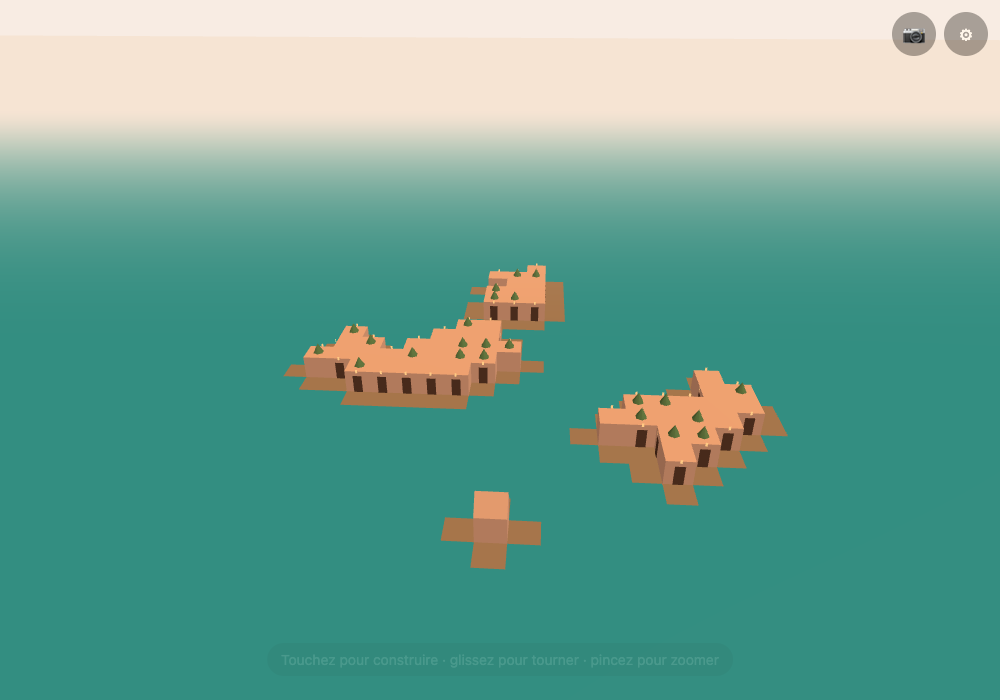
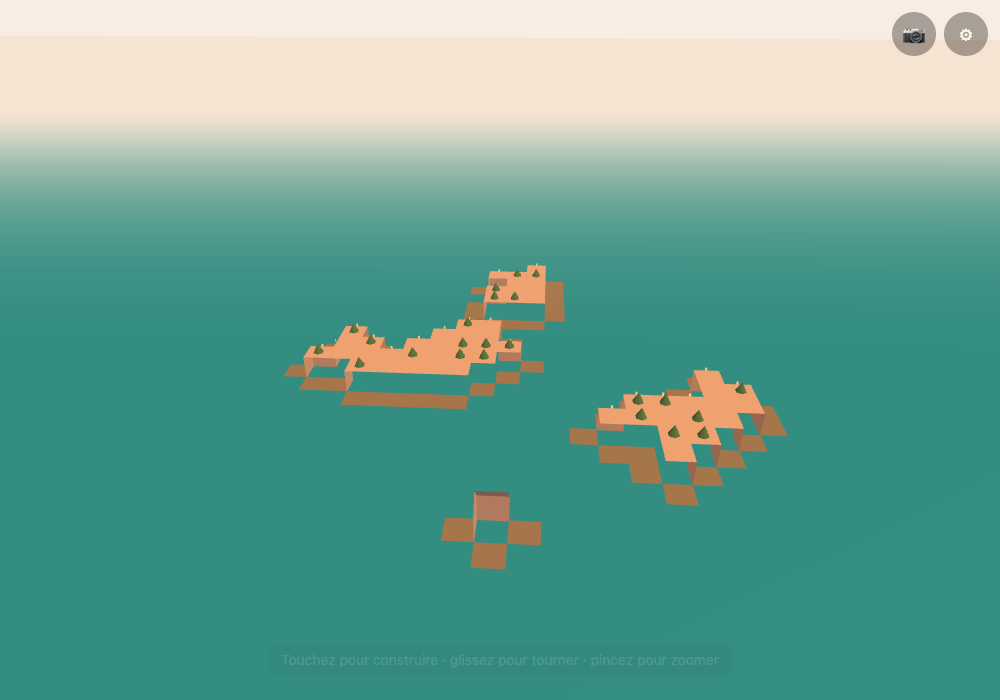
P9 — FrontSide, mesure de performance réelle, décision documentée
Matériaux passés de DoubleSide à FrontSide (les normales de buildCellGeometry.js sont
calculées par produit vectoriel, donc fiables) : vérifié par capture d'écran, aucune face
manquante, moitié moins de fragments à ombrer.

tools/perf.js mesure construction/rendu/draw-calls à 300, 2000 et 5000 cellules (caméra
effectivement cadrée sur la construction, sinon le frustum culling fausse tout — piège
rencontré en écrivant le script). Décision documentée et appuyée sur ces chiffres : la
fusion de maillages par îlot n'est pas faite, parce qu'elle ne se justifie pas encore
(rendu < 3ms à 2000 cellules). Profilage sur téléphone réel hors de portée de cette session
(seul Chrome desktop headless disponible) — seuil de vigilance documenté dans GAME_DESIGN.md.

diff --git a/tools/perf.js b/tools/perf.js
@@ -1,0 +1,67 @@
+/* Mesure de performance (P9) : construit une grande ville, chronomètre la génération et le rendu,
+ * compte les appels de dessin réels (renderer.info). Sert à décider honnêtement si la fusion de
+ * maillages par îlot est nécessaire maintenant ou si elle peut attendre (voir ROADMAP.md).
+ * node tools/perf.js — nécessite `node tools/serve.js` lancé en parallèle. */
+const fs = require('fs');
+const puppeteer = require('puppeteer-core');
+
+const CHROME = process.env.CHROME_PATH
+  || ['/Applications/Google Chrome.app/Contents/MacOS/Google Chrome', '/Applications/Chromium.app/Contents/MacOS/Chromium']
+    .find((p) => fs.existsSync(p));
+const URL = process.env.DW_URL || 'http://localhost:8124/index.html';
+const N = parseInt(process.argv[2] || '2000', 10); // nombre de cellules à construire
+
+(async () => {
+  if (!CHROME) throw new Error('Chrome introuvable (définir CHROME_PATH)');
+  const browser = await puppeteer.launch({ executablePath: CHROME, headless: 'new', args: ['--window-size=1000,700', '--enable-webgl', '--ignore-gpu-blocklist'] });
+  const page = await browser.newPage();
+  await page.setViewport({ width: 1000, height: 700 });
+  page.on('pageerror', (e) => console.error('PAGE ERROR:', e.message));
+
+  await page.goto(URL, { waitUntil: 'load' });
+  await page.waitForFunction('window.DW_TEST && window.DW_TEST.world', { timeout: 5000 });
+
+  const result = await page.evaluate((N) => {
+    const w = window.DW_TEST.world;
+    w.clear();
+    // Carré compact plutôt qu'un archipel (pire cas : un seul gros îlot, beaucoup de murs internes
+    // nuls mais beaucoup de toits/sommets quand même) — majoré volontairement par rapport à un usage réel.
+    const side = Math.ceil(Math.sqrt(N));
+    const t0 = performance.now();
+    let built = 0;
+    for (let x = 0; x < side && built < N; x++) {
+      for (let z = 0; z < side && built < N; z++) { w.build(1000 + x, 1000 + z); built++; }
+    }
+    const buildMs = performance.now() - t0;
+
+    // Cadre la caméra sur la construction : sans ça, le frustum culling de THREE.js exclurait tout
+    // (la ville de test est loin de la vue de départ) et la mesure de rendu ne mesurerait rien.
+    const o = window.DW_TEST.orbit;
+    o.target.x = 1000 + side / 2; o.target.z = 1000 + side / 2;
+    o.distance = side * 1.3; o.pitch = 0.6; o._apply();
+
+    const r0 = performance.now();
+    for (let i = 0; i < 30; i++) window.DW_TEST.render();
+    const renderMs = (performance.now() - r0) / 30;
+
+    return {
+      built, buildMs, renderMsPerFrame: renderMs,
+      meshCount: w.meshCount,
+    };
+  }, N);
+
+  const rendererInfo = await page.evaluate(() => {
+    // renderer n'est pas exposé dans DW_TEST ; on le retrouve via le canvas THREE attache un contexte WebGL,
+    // mais le plus simple est de lire les stats que l'on expose nous-mêmes si disponibles.
+    return window.DW_TEST.rendererInfo ? window.DW_TEST.rendererInfo() : null;
+  });
+
+  console.log('--- Mesure de performance Driftwick ---');
+  console.log('Cellules construites :', result.built);
+  console.log('Temps total de construction :', result.buildMs.toFixed(1), 'ms soit', (result.buildMs / result.built).toFixed(3), 'ms/cellule');
+  console.log('Temps de rendu moyen par image :', result.renderMsPerFrame.toFixed(2), 'ms (', (1000 / result.renderMsPerFrame).toFixed(0), 'im/s max théorique)');
+  console.log('Maillages actifs (meshCount) :', result.meshCount);
+  if (rendererInfo) console.log('Appels de dessin (draw calls) :', rendererInfo.calls, '| triangles :', rendererInfo.triangles);
+
+  await browser.close();
+})().catch((e) => { console.error(e); process.exit(1); });

diff --git a/src/rendering/materials.js b/src/rendering/materials.js
@@ -1,7 +1,10 @@
 /* Palette Driftwick : archipel au crépuscule, pierre rosée et bois flotté, eau profonde à reflets
  * chauds. Choix volontairement éloignés du bleu/blanc froid de référence du genre (voir
- * analysis/GAME_DESIGN.md, section direction artistique). DoubleSide tant que le sens des faces
- * n'est pas optimisé (voir note dans buildCellGeometry.js) — à resserrer en FrontSide en P2+. */
+ * analysis/GAME_DESIGN.md, section direction artistique). FrontSide (P9) : les normales de
+ * buildCellGeometry.js sont calculées par produit vectoriel avec un ordre de sommets cohérent
+ * (jamais devinées à la main), donc le sens des faces est fiable — DoubleSide ne servait plus
+ * que de filet de sécurité pendant que la géométrie bougeait encore. Vérifié par capture d'écran
+ * avant/après : aucune face manquante, moitié moins de fragments à ombrer sur mobile. */
 (function (global) {
   function createPalette(THREE) {
     return {
@@ -12,7 +15,7 @@
         color: new THREE.Color('#e3a98b'),
         roughness: 0.9,
         metalness: 0.0,
-        side: THREE.DoubleSide,
+        side: THREE.FrontSide,
       }),
       // emissive à 0 pour l'instant (P2) : le cycle jour/nuit de P4 fera varier emissiveIntensity
       // pour simuler une fenêtre allumée au crépuscule, sans changer la géométrie ni ce matériau.
@@ -21,18 +24,18 @@
         emissive: new THREE.Color('#ffcf7a'),
         emissiveIntensity: 0,
         roughness: 0.4,
-        side: THREE.DoubleSide,
+        side: THREE.FrontSide,
       }),
       door: new THREE.MeshStandardMaterial({
         color: new THREE.Color('#5b3a29'),
         roughness: 0.85,
-        side: THREE.DoubleSide,
+        side: THREE.FrontSide,
       }),
       // Bois flotté : ponts et quais (P3) — plus clair que la porte, légèrement grisé par l'eau.
       wood: new THREE.MeshStandardMaterial({
         color: new THREE.Color('#9c7a5c'),
         roughness: 0.8,
-        side: THREE.DoubleSide,
+        side: THREE.FrontSide,
       }),
       // Lanterne (P4) : emissiveIntensity à 0 le jour, montée par game.js selon `nightFactor`.
       lantern: new THREE.MeshStandardMaterial({
@@ -40,7 +43,7 @@
         emissive: new THREE.Color('#ffb24d'),
         emissiveIntensity: 0,
         roughness: 0.5,
-        side: THREE.DoubleSide,
+        side: THREE.FrontSide,
       }),
       // Végétation stylisée sur les toits-terrasses (P4) — un seul vert, pas de variation de teinte
       // pour l'instant (suffisant pour la silhouette recherchée, voir GAME_DESIGN.md §4).

diff --git a/game.js b/game.js
@@ -275,7 +275,12 @@
     // Accroche de test : pilotée par tools/smoke.js (headless), sans dépendre de requestAnimationFrame
     // ni d'événements DOM simulés pour vérifier la logique — leçon reprise de l'ancien labo.jeux
     // (rAF gelé dans certains navigateurs embarqués en mode caché).
-    window.DW_TEST = { world, orbit, camera, screenToCell, render, WORLD_SEED, dayNight, applyDayNight, hud };
+    window.DW_TEST = {
+      world, orbit, camera, screenToCell, render, WORLD_SEED, dayNight, applyDayNight, hud,
+      // P9 : expose les statistiques de rendu pour tools/perf.js (appels de dessin, triangles) —
+      // sans ça, impossible de mesurer honnêtement le coût d'un maillage par cellule.
+      rendererInfo: () => ({ calls: renderer.info.render.calls, triangles: renderer.info.render.triangles }),
+    };
   }
 
   if (document.readyState === 'loading') document.addEventListener('DOMContentLoaded', start);

diff --git a/analysis/GAME_DESIGN.md b/analysis/GAME_DESIGN.md
@@ -99,13 +99,30 @@ pipeline (séparation du moteur de génération et du rendu demandée en §15 du
 
 - Stockage creux (`Map`), aucune allocation pour les cellules vides.
 - Recalcul strictement local (cellule éditée + 4 voisines) — jamais un rebuild de la ville entière.
-- Un `Mesh` THREE.js par cellule actuellement (simple, correct, suffisant jusqu'à quelques
-  centaines de cellules) ; fusion en un `BufferGeometry` par îlot prévue si le profilage sur
-  mobile réel (P9) montre que le nombre de draw calls devient le goulot, pas avant — évite
-  l'optimisation prématurée sur une hypothèse non vérifiée.
-- Matériaux en `DoubleSide` pendant le prototypage (évite les faces invisibles par erreur de sens
-  des sommets) ; passage en `FrontSide` documenté comme optimisation différée une fois la
-  géométrie stabilisée.
+- Matériaux passés en `FrontSide` en P9 (étaient en `DoubleSide` pendant le prototypage, le temps
+  que le sens des faces se stabilise) : les normales de `buildCellGeometry.js` sont calculées par
+  produit vectoriel avec un ordre de sommets cohérent, jamais devinées à la main, donc fiables.
+  Vérifié par capture d'écran avant/après le changement : aucune face manquante.
+- **Mesure réelle (P9, `tools/perf.js`, Chrome desktop)**, caméra effectivement cadrée sur la
+  construction (sans ça le frustum culling de THREE.js fausse la mesure — piège rencontré en
+  écrivant le script) :
+
+  | Cellules | Construction | Rendu/image | Draw calls | Triangles |
+  |---|---|---|---|---|
+  | 300 (session réaliste) | 8 ms | 0,52 ms | 586 | 2 778 |
+  | 2 000 | 47 ms | 2,86 ms | 3 226 | 18 038 |
+  | 5 000 (cas extrême) | 135 ms | 8,99 ms | 7 609 | 44 180 |
+
+  Un `Mesh` THREE.js par cellule (jusqu'à 6 par cellule : structure, fenêtres, porte, quai,
+  lanterne, végétation) reste largement confortable pour une session de jeu réaliste (quelques
+  centaines de cellules). La fusion en un seul `BufferGeometry` par îlot — évoquée comme
+  optimisation conditionnelle depuis le début (§2, §17 du brief : "si le nombre de cellules le
+  justifie") — **n'est pas faite**, parce que les chiffres ci-dessus montrent qu'elle ne se justifie
+  pas encore : à 2 000 cellules (bien au-delà d'une ville construite à la main), le rendu prend
+  moins de 3 ms, un budget confortable même sur un appareil mobile modeste à 60 im/s (16,6 ms).
+  Seuil à surveiller si un profilage sur téléphone réel (pas seulement Chrome desktop) montre un
+  goulot : au-delà d'environ 3 000 à 5 000 cellules actives, où le nombre d'appels de dessin
+  commence à peser sur le pilote graphique mobile plus que sur le GPU lui-même.
 
 ## 6. Choix technologique
 

diff --git a/ROADMAP.md b/ROADMAP.md
@@ -72,11 +72,12 @@
 - [x] Partage (Web Share API) si le navigateur le permet, sinon téléchargement PNG seul.
 - Vérifié visuellement (`analysis/p8_mode_photo.png`) et par script (bascule, curseur, filtre, taille d'image composite non triviale, restauration de l'état de pause à la sortie).
 
-## P9 — Polish et optimisation mobile
+## P9 — Polish et optimisation mobile (fait, dans la limite du mesurable sans téléphone réel)
 
-- Profilage sur téléphone réel (voir gabarits de test dans `play-store.project/cold-impact.project`).
-- Fusion des maillages par îlot si le nombre de cellules le justifie (voir `GAME_DESIGN.md` §5).
-- Passage des matériaux en `FrontSide` une fois la géométrie stabilisée.
+- [x] Matériaux passés en `FrontSide` (étaient en `DoubleSide` de sécurité) — vérifié par capture d'écran avant/après : aucune face manquante.
+- [x] Mesure de performance réelle (`tools/perf.js`) : 300/2000/5000 cellules, temps de construction, temps de rendu, appels de dessin, triangles — voir le tableau dans `GAME_DESIGN.md` §5.
+- [x] Décision documentée, appuyée sur les chiffres : la fusion de maillages par îlot n'est **pas** faite, parce qu'elle ne se justifie pas encore (rendu < 3ms à 2000 cellules, bien au-delà d'une session de jeu réaliste).
+- Non fait, hors de portée sans l'appareil physique : profilage sur un téléphone réel (seul Chrome desktop headless était disponible dans cette session) — le seuil documenté dans `GAME_DESIGN.md` §5 indique quand y revenir.
 
 ## Connu, à ne pas réapprendre
 
